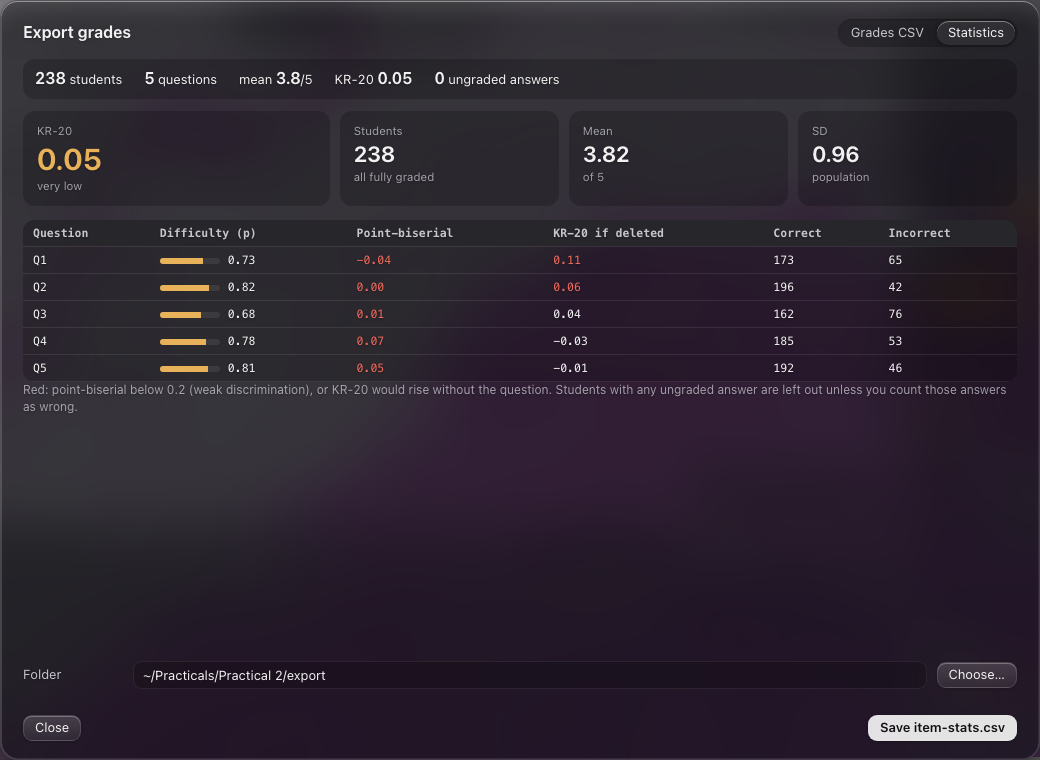
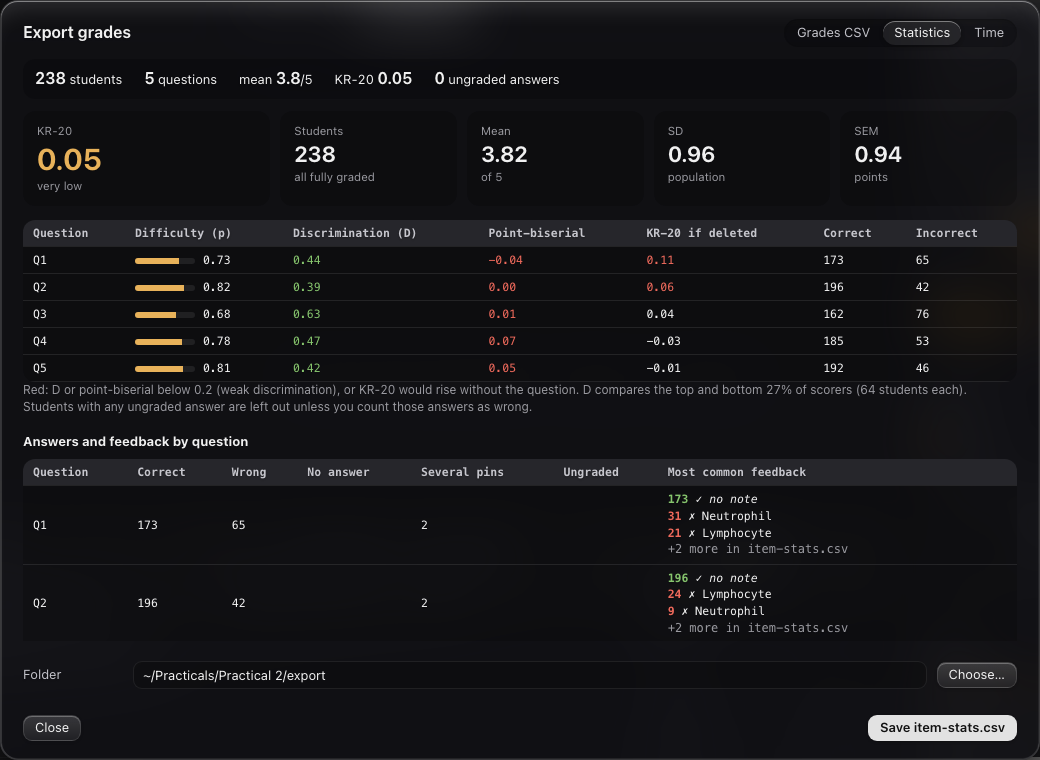
Manual: take the Overleaf edits as the base; statistics section updated

diff --git a/manual/chapters/getting-started.tex b/manual/chapters/getting-started.tex
@@ -13,12 +13,12 @@
 \subsection{The start screen}\label{sec:getting-started:the-start-screen}
 
 \begin{figure}[H]\centering
-\subshot[fig:start-screen]{0.3}{img/start.png}{The start screen}\hspace{0.06\linewidth}%
-\subshot[fig:new-session]{0.55}{img/new-session.png}{Setting up a new session}
-\caption{Starting out}\label{fig:start}
+\includegraphics[width=0.3\linewidth]{img/start.png}\hspace{0.06\linewidth}%
+\includegraphics[width=0.35\linewidth]{img/new-session.png}
+\caption{Starting screen on the left and setting up a new session on the right}\label{fig:start}
 \end{figure}
 
-The start screen (Figure~\ref{fig:start-screen}) offers:
+The start screen (Figure~\ref{fig:start}) offers:
 
 \begin{itemize}[topsep=2pt, itemsep=2pt]
 \item \textbf{New grading session\ldots{}} sets up a new session from the three things above.
@@ -29,17 +29,17 @@ The start screen (Figure~\ref{fig:start-screen}) offers:
 
 \subsection{Create a session}\label{sec:getting-started:create-a-session}
 
-The \textbf{New grading session} window (Figure~\ref{fig:new-session}) takes you through five steps:
+The \textbf{New grading session} window (Figure~\ref{fig:start}) takes you through five steps:
 
 \begin{enumerate}[topsep=2pt, itemsep=2pt]
-\item \textbf{Exam questions}: click \textbf{Choose exam PDF / JSON\ldots{}}. To fix what was read, or to add questions it missed, click \textbf{Edit questions\ldots{}} (see \href{https://github.com/agadin/micro-speed-grader/blob/main/docs/help/exam-questions.md}{Set up exam questions}\,\onlinemark{}). No exam file? Choose \textbf{Set up the questions by hand}. The app reads every line shaped like \texttt{Q1. Using VMS123, \ldots{}} and lists the questions in a table. Edit the session name if you like.
+\item \textbf{Exam questions}: click \textbf{Choose exam PDF / JSON\ldots{}}. To fix what was read, or to add questions it missed, click \textbf{Edit questions\ldots{}} (see \href{https://github.com/agadin/micro-speed-grader/blob/main/docs/help/exam-questions.md}{Set up exam questions in Section~\ref{sec:more}}). No exam file? Choose \textbf{Set up the questions by hand}. The app reads every line shaped like \texttt{Q1. Using VMS123, \ldots{}} and lists the questions in a table. Edit the session name if you like.
 \item \textbf{Student submissions folder}: click \textbf{Choose folder\ldots{}} and pick the folder that holds one folder per student. The app shows how many student folders and annotation files it found.
 \item \textbf{Slide images folder}: click \textbf{Choose folder\ldots{}} and pick the folder of slides. Each question's slides are marked \textbf{\checksym{}} when found or \textbf{missing} when not.
-\item \textbf{Save session as}: click \textbf{Choose\ldots{}} and pick where to keep the session file. It's pre-filled next to the submissions folder.
+\item \textbf{Save session as}: click \textbf{Choose\ldots{}} and pick where to keep the session file (optional, pre-filled by default).
 \item Click \textbf{Start grading \ensuremath{\rightarrow}}.
 \end{enumerate}
 
-\textbf{Start grading \ensuremath{\rightarrow}} stays greyed out until at least one question is included and all three folders and the save location are chosen. Until then, the line next to it says what's still needed (hover over the button for the same list).
+\textbf{Start grading \ensuremath{\rightarrow}} stays greyed out until at least one question is included and all three folders and the save location are chosen. Until then, the line next to it says what is still needed (hover over the button for the same list).
 
 \subsubsection{Choosing which questions to grade}\label{sec:getting-started:choosing-which-questions-to-grade}
 
@@ -57,11 +57,11 @@ The last step lets you import an \hyperref[sec:answer-key]{answer key} saved fro
 
 Once the exam and the submissions folder are chosen, the app reads every student's files. If anything looks wrong, step 2 shows \textbf{\warnsym{} N things to check \textperiodcentered{} Review}. Click \textbf{Review} to see each problem, what it means and what to do, with the students and files it affects. Long lists are cut short: click \textbf{Show all} to see the rest.
 
-The top of the list shows how far you've got: how many were found, fixed, acknowledged and left. Work through it like this:
+The top of the list shows how far you've got: how many were found, fixed, acknowledged and left.
 
 \begin{itemize}[topsep=2pt, itemsep=2pt]
-\item \textbf{This file is for\ldots{}}: for a file with no slide ID, or the wrong one, choose the slide it's really for. The app reads it as that slide from then on (including when you \href{https://github.com/agadin/micro-speed-grader/blob/main/docs/help/getting-started.md\#new-and-changed-submissions}{rescan}\,\onlinemark{}); the file itself isn't renamed. It moves to \textbf{Fixed}, where \textbf{Undo} takes it back.
-\item \textbf{Show file} / \textbf{Show folder} opens it in Finder, so you can look at it or add what's missing. Then click \textbf{Check again}.
+\item \textbf{This file is for\ldots{}}: for a file with no slide ID, or the wrong one, choose the slide It is really for. The app reads it as that slide from then on (including when you \href{https://github.com/agadin/micro-speed-grader/blob/main/docs/help/getting-started.md\#new-and-changed-submissions}{rescan}\,\onlinemark{}); the file itself is not renamed. It moves to \textbf{Fixed}, where \textbf{Undo} takes it back.
+\item \textbf{Show file} / \textbf{Show folder} opens it in Finder, so you can look at it/add what is missing. Then click \textbf{Check again}.
 \item \textbf{OK} marks one item as checked; \textbf{Acknowledge all} does a whole group, or everything left. Acknowledged items stay listed, crossed out, and \textbf{Undo} puts one back.
 \end{itemize}
 
@@ -74,22 +74,22 @@ When nothing is left, step 2 shows \textbf{\checksym{} All N checked}. You can s
 \midrule
 \textbf{Nothing to grade} & A student's folder has no pins the app can use (no \texttt{.ndpa} files, or none for the exam's slides). & Check whether the student submitted. If they did, put their \texttt{.ndpa} files in their folder. \\
 \textbf{Missing a slide} & The student has no file for a slide an included question uses, so they have no answer for it. & If the file is there under another name, rename it so it includes the slide ID. \\
-\textbf{No slide ID in the file name} & The app can't tell which slide the file is for, so its pins are left out. & Rename the file so it includes the slide ID, e.g. \texttt{VMS109.ndpi.ndpa}. \\
+\textbf{No slide ID in the file name} & The app cannot tell which slide the file is for, so its pins are left out. & Rename the file so it includes the slide ID, e.g. \texttt{VMS109.ndpi.ndpa}. \\
 \textbf{Slide not in the exam} & No question uses that slide, so its pins are left out. & Usually nothing. If the student typed the wrong slide ID, rename the file. \\
-\textbf{Pin names a question not on that slide} & A pin titled, say, \emph{Q9} is on a slide that's only for Q2. It's still graded with that slide's questions. & Look at it when you grade that slide: the student may have mislabelled the pin or used the wrong slide. \\
+\textbf{Pin names a question not on that slide} & A pin titled, say, \emph{Q9} is on a slide that is only for Q2. It is still graded with that slide's questions. & Look at it when you grade that slide: the student may have mislabelled the pin or used the wrong slide. \\
 \textbf{Too many pins} & Only the first 50 pins per student per slide are kept. & Open the file in NDP.view if you need the rest. \\
-\textbf{File too large} & Annotation files over 2 MB are skipped; a real one is a few KB. & It's probably damaged. Ask the student to save it again from NDP.view. \\
-\textbf{File can't be read} & The file isn't valid annotation data, so it was skipped. & Ask the student to save it again from NDP.view. \\
+\textbf{File too large} & Annotation files over 2 MB are skipped; a real one is a few KB. & It is probably damaged. Ask the student to save it again from NDP.view. \\
+\textbf{File cannot be read} & The file is not valid annotation data, so it was skipped. & Ask the student to save it again from NDP.view. \\
 \bottomrule
 \end{tabularx}\endgroup\par\medskip
 
-Files for a question you've left out (unticked) aren't checked.
+Files for a question you have left out (unticked) are not checked.
 
 \tocoff
 \subsection{Saving and backups}\label{sec:getting-started:saving-and-backups}
 \tocon
 
-There's no Save button: the session saves itself a moment after every change, and whenever you change image or close the session. The top bar shows \textbf{Saving\ldots{}}, then \textbf{\checksym{} Saved}.
+There is no Save button: the session saves itself a moment after every change, and whenever you change image or close the session. The top bar shows \textbf{Saving\ldots{}}, then \textbf{\checksym{} Saved}.
 
 Each save keeps the previous version next to it as \texttt{yoursession.msgrade.bak}. If the session file is ever damaged, opening it falls back to the backup automatically.
 

diff --git a/manual/chapters/handoff.tex b/manual/chapters/handoff.tex
@@ -7,8 +7,7 @@ Split a grading session with one or more other graders. You (the \textbf{host}) 
 There is no server and no account. The files travel however you like: email, Google Drive, a shared folder or a USB stick.
 
 \begin{codebox}\begin{alltt}
- host -- Exam - Jamie.msgpack --\ensuremath{\blacktriangleright} guest grades only that work
- host \ensuremath{\blacktriangleleft}-- Exam - Jamie.msgresult -- guest
+ host -- Exam - Jamie.msgpack --\ensuremath{\blacktriangleright} guest grades only that work host \ensuremath{\blacktriangleright}-- Exam - Jamie.msgresult -- guest
 \end{alltt}\end{codebox}
 
 \shot{0.38\linewidth}{img/handoff.png}{Splitting the work between three people}
@@ -77,7 +76,7 @@ With several graders, import each person's results file as it arrives, in any or
 
 Merging is a single step you can undo with \keycap{\cmdsym{}}\keyplus{}\keycap{Z}.
 
-Only pins that were in that pack are taken from the file. If you already graded one of those pins yourself (for example after a recall), \textbf{your grade is kept} and the guest's is skipped. The confirmation message says how many were skipped.
+Only pins in that pack are taken from the file. If you already graded one of those pins yourself (for example after a recall), \textbf{your grade is kept} and the guest's is skipped. The confirmation message says how many were skipped.
 
 \subsubsection{Sending results again}\label{sec:handoff:sending-results-again}
 
@@ -132,8 +131,6 @@ To check that everyone is marking the same way, give some pins to two people. Ea
 \item Each person's column shows how many extra pins they grade second (\textbf{+N twice}), and the bar at the top shows them as a striped end on that person's colour. Click \textbf{Create packs} as usual.
 \end{enumerate}
 
-Grading twice needs at least two people taking part.
-
 When both grades for a pin are in:
 
 \begin{itemize}[topsep=2pt, itemsep=2pt]
@@ -145,7 +142,7 @@ If you're one of the graders, you grade your overlap pins in your own session as
 
 \subsection{Settle disagreements}\label{sec:handoff:settle-disagreements}
 
-When there are disagreements, a red \textbf{Disagreements} button with a count appears (Figure~\ref{fig:disagreements}) in the top bar, and those pins get a red \textbf{!} dot on the slide. Click the button to see them, grouped by image and by what each person said, for example \emph{Q2 \textperiodcentered{} VMS109 --- Jamie: \checksym{} Correct, Sam: \crosssym{} Neutrophil --- 12 pins}.
+When there are disagreements, a red \textbf{Disagreements} button with a count appears (Figure~\ref{fig:disagreements}) in the top bar, and those pins get a red \textbf{!} dot on the slide. Click the button to see them, grouped by image and by what each person said, for example \emph{Q2 \textperiodcentered{} VMS109; Jamie: \checksym{} Correct, Sam: \crosssym{} Neutrophil 12 pins}.
 
 For each group:
 
@@ -158,7 +155,7 @@ Settling is a normal step you can undo with \keycap{\cmdsym{}}\keyplus{}\keycap{
 
 \subsubsection{How often graders agree}\label{sec:handoff:how-often-graders-agree}
 
-The Disagreements window also shows, for each pair of graders, how many pins they both graded, how often they agreed, and \textbf{\ensuremath{\kappa}} (Cohen's kappa on correct / wrong: how much more they agree than chance would). Above 0.8 is very good. Below 0.6, shown in red, suggests the two read the question differently and are worth a quick calibration chat. \ensuremath{\kappa} shows \textbf{---} when one of them gave every shared pin the same grade, because there's then nothing to measure beyond the agreement percentage.
+The Disagreements window also shows, for each pair of graders, how many pins they both graded, how often they agreed, and \textbf{\ensuremath{\kappa}} (Cohen's kappa on correct / wrong: how much more they agree than chance would). Above 0.8 is very good. Below 0.6, shown in red, suggests the two read the question differently and are worth a quick calibration chat. \ensuremath{\kappa} shows when one of them gave every shared pin the same grade, because there's then nothing to measure beyond the agreement percentage.
 
 \subsection{Taking work back (recall)}\label{sec:handoff:taking-work-back-recall}
 

diff --git a/manual/chapters/export.tex b/manual/chapters/export.tex
@@ -59,16 +59,19 @@ The \textbf{Statistics} tab shows how the exam performed:
 
 \begin{itemize}[topsep=2pt, itemsep=2pt]
 \item \textbf{KR-20}: the test's reliability (0--1), with a reading from \emph{very low} to \emph{good}.
-\item \textbf{Mean} and \textbf{SD} of the scores.
+\item \textbf{Mean} and \textbf{SD} of the scores, and the \textbf{SEM} (standard error of measurement, $\mathrm{SD}\sqrt{1-\mathrm{KR20}}$): roughly how many points a student's score could move on a retest.
 \item For each question:
 \begin{itemize}[topsep=1pt]
 \item \textbf{Difficulty (p)}: the share of students who got it right.
-\item \textbf{Point-biserial (corrected)}: how well the question separates strong from weak students. Below 0.2 is shown in red.
+\item \textbf{Discrimination (D)}: p among the top 27\% of scorers minus p among the bottom 27\%. Hover it for the two values. Below 0.2 is shown in red, 0.3 and up in green.
+\item \textbf{Point-biserial (corrected)}: how well the question separates strong from weak students.
 \item \textbf{KR-20 if deleted}: reliability without that question. Red when leaving it out would make the test more reliable.
 \end{itemize}
 \end{itemize}
 
-If some answers are ungraded, choose \textbf{Leave those students out} or \textbf{Count ungraded as wrong}. At least two fully graded students are needed. \textbf{Save item-stats.csv} writes the table to the export folder.
+\textbf{Answers and feedback by question} lists, for every student (graded or not), how many got each question right and wrong, how many had no pin, how many had several pins, and how many are still ungraded, with the three most common pieces of feedback. Feedback that differs only in capitals counts as one.
+
+If some answers are ungraded, choose \textbf{Leave those students out} or \textbf{Count ungraded as wrong}. At least two fully graded students are needed. \textbf{Save item-stats.csv} writes the summary, the per-question statistics, the answer counts and every piece of feedback with its count to the export folder.
 
 {\small\textbf{Also in the online help:} \href{https://github.com/agadin/micro-speed-grader/blob/main/docs/help/export.md\#time-spent}{Time spent}\,\onlinemark{}}
 \tocon

diff --git a/manual/chapters/selecting.tex b/manual/chapters/selecting.tex
@@ -21,12 +21,12 @@ When more than one tool is on, the \textbf{Select} section of the right panel sh
 \caption{The three selection tools, partway through selecting some of a cluster's pins}\label{fig:tools}
 \end{figure}
 
-{\setlist[itemize]{leftmargin=1em, topsep=3pt, itemsep=2pt, after=\vspace{-\baselineskip}}
+{\setlist[itemize]{leftmargin=1em, topsep=3pt, itemsep=2pt, after=\vspace{-0.1\baselineskip}}
 \noindent\begin{tabularx}{\linewidth}{@{}Y@{\hspace{1.2em}}Y@{\hspace{1.2em}}Y@{}}
 \toprule
 \textbf{Lasso} & \textbf{Brush} & \textbf{Polygon} \\
 \midrule
-Drag a loop around the pins. When you let go, the grade menu opens beside them.
+Drag a loop around the pins. When you let go, the grade menu opens.
 \begin{itemize}
 \item \keycap{\cmdsym{}}-drag adds to the selection (the menu stays closed).
 \item \keycap{\shiftsym{}}-drag selects everything \emph{outside} the loop.
@@ -51,3 +51,4 @@ Click to place corners around the pins. Close the shape by clicking the first co
 \end{tabularx}}\par\medskip
 
 {\small\textbf{Also in the online help:} \href{https://github.com/agadin/micro-speed-grader/blob/main/docs/help/selecting.md\#paint-with-pins-hidden}{Paint with pins hidden}\,\onlinemark{} \textperiodcentered{} \href{https://github.com/agadin/micro-speed-grader/blob/main/docs/help/selecting.md\#pin-by-pin}{Pin by pin}\,\onlinemark{} \textperiodcentered{} \href{https://github.com/agadin/micro-speed-grader/blob/main/docs/help/selecting.md\#spotlight-and-small-pins}{Spotlight and small pins}\,\onlinemark{} \textperiodcentered{} \href{https://github.com/agadin/micro-speed-grader/blob/main/docs/help/selecting.md\#moving-the-cluster-ring}{Moving the cluster ring}\,\onlinemark{} \textperiodcentered{} \href{https://github.com/agadin/micro-speed-grader/blob/main/docs/help/selecting.md\#click-to-add--remove}{Click to add / remove}\,\onlinemark{}}
+\vspace{-10pt}

diff --git a/manual/chapters/more.tex b/manual/chapters/more.tex
@@ -1,4 +1,4 @@
-\bigskip
+\newpage
 \section{More in the online help}\label{sec:more}
 These pages of the Help are summarised here. Scan a code, or click a title's link, to read the full page; it's also in the app under \textbf{Help}.\par\medskip
 
@@ -40,7 +40,7 @@ When a student asks about their grade, you don't need to hunt image by image. Th
 
 \begin{pagecard}\phantomsection\addcontentsline{toc}{subsection}{What students see}\label{sec:feedback}
 {\large\bfseries What students see}\par\smallskip
-Every student gets a short feedback note built from your grades. The same text goes into their own \texttt{feedback/\textless{}name\textgreater{}.txt} file and into the \textbf{Comment} column of \texttt{grades.csv}.\par
+Every student gets a feedback note. The same text goes into their own \texttt{feedback/\textless{}name\textgreater{}.txt} file and into the \textbf{Comment} column of \texttt{grades.csv}.\par
 \par\smallskip{\centering\tcbox[enhanced, boxsep=0pt, left=0pt, right=0pt, top=0pt, bottom=0pt, arc=4pt, boxrule=0.5pt, colframe=black, colback=white, clip upper]{\includegraphics[width=0.7\linewidth, height=4.2cm, keepaspectratio]{img/prefs-text.png}}\par{\scriptsize Editing the feedback wording}\par}\smallskip
 {\small Covers: Changing the wording}
 \tcblower
@@ -64,3 +64,5 @@ Open Preferences with \keycap{\cmdsym{}}\keyplus{}\keycap{,} or the gear in the 
 \tcblower
 \centering\href{https://github.com/agadin/micro-speed-grader/blob/main/docs/help/troubleshooting.md}{\qrcode[height=1.75cm, nolink]{https://github.com/agadin/micro-speed-grader/blob/main/docs/help/troubleshooting.md}}\\[3pt]\helplink{troubleshooting.md}
 \end{pagecard}
+
+\vspace{-20pt}

diff --git a/manual/chapters/index.tex b/manual/chapters/index.tex
@@ -5,5 +5,6 @@
 Micro Speed Grader marks virtual-microscopy practicals one question at a time. Students drop a pin on a structure in a whole-slide image. The app gathers every student's pin for a question onto one slide, groups pins that land on the same structure, and lets you grade a whole group with one key press. When you're done it exports a grades spreadsheet and a feedback note for each student.
 
 \begin{figure}[H]\centering\framedshot{0.72\linewidth}{img/grading-overview.jpg}\caption{The grading screen: one question, every student's pins, grouped into clusters}\label{fig:overview}\end{figure}
-
+\vspace{-10pt}
 \begin{note}Hover over any control in the app to see what it does. When the tooltip shows a \keycap{?}, click it to jump to the matching section here.\end{note}
+\vspace{-10pt}

diff --git a/manual/chapters/shortcuts.tex b/manual/chapters/shortcuts.tex
@@ -5,7 +5,7 @@
 
 Press \keycap{?} while grading to show the shortcuts sheet over the slide. On Windows, use \keycap{Ctrl} where this page says \keycap{\cmdsym{}}.
 
-\shot{0.35\linewidth}{img/shortcuts.jpg}{The shortcuts sheet}
+% \shot{0.35\linewidth}{img/shortcuts.jpg}{The shortcuts sheet}
 
 \begin{multicols}{2}
 \subsection{Grading}\label{sec:shortcuts:grading}
